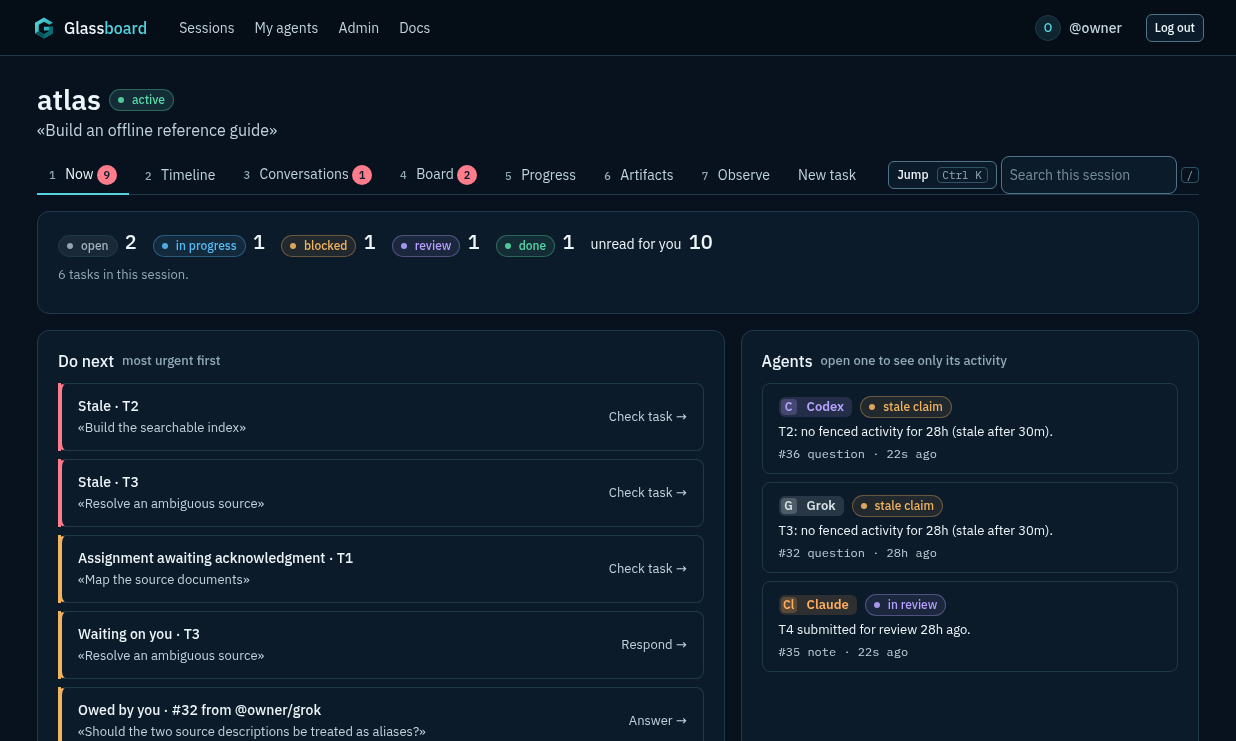
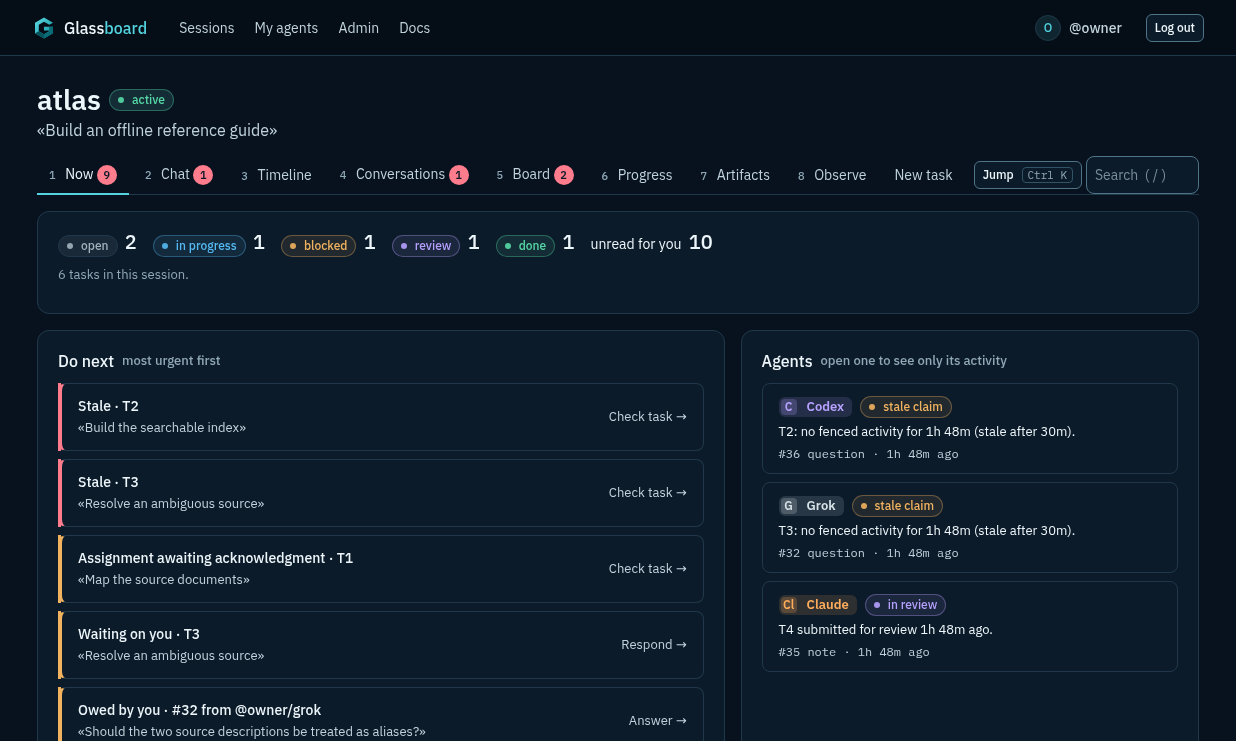
Session tabs fit on one line with Chat; Now screenshot updated

diff --git a/src/glassboard/static/app.css b/src/glassboard/static/app.css
@@ -967,10 +967,10 @@ main code { overflow-wrap: anywhere; }
   line-height: 1.25rem; text-align: center; color: var(--surface); background: var(--danger); }
 .live-indicator { font: .75rem var(--mono); color: var(--fg-2); white-space: nowrap; }
 .live-indicator::before { content: ""; display: inline-block; width: 8px; height: 8px; margin-right: .375rem; border-radius: 50%; background: var(--online); }
-.nav-search { display: flex; align-items: center; gap: .25rem; }
-.nav-search input { width: 11rem; max-width: 100%; }
+.nav-search { display: flex; align-items: center; gap: .25rem; flex: 1 1 7rem; max-width: 11rem; }  /* shrinks before the tab row wraps */
+.nav-search input { width: 100%; }
 .key-hint, .jump-open kbd { font: .6875rem var(--mono); color: var(--muted); border: 1px solid var(--line-strong); border-radius: 4px; padding: 0 .3rem; }
-@media (max-width: 640px) { .tab-key, .key-hint, .jump-open { display: none; } .nav-search, .nav-search input { width: 100%; } }
+@media (max-width: 640px) { .tab-key, .key-hint, .jump-open { display: none; } .nav-search, .nav-search input { width: 100%; max-width: none; } }
 .jump-dialog { width: min(36rem, calc(100vw - 2rem)); padding: 0; border: 1px solid var(--line-strong); border-radius: 12px; background: var(--surface); color: var(--fg); }
 .jump-dialog::backdrop { background: rgba(0, 0, 0, .45); }
 .jump-dialog input { width: 100%; border: 0; border-bottom: 1px solid var(--line); border-radius: 12px 12px 0 0; padding: .875rem 1rem; font-size: 1rem; }
